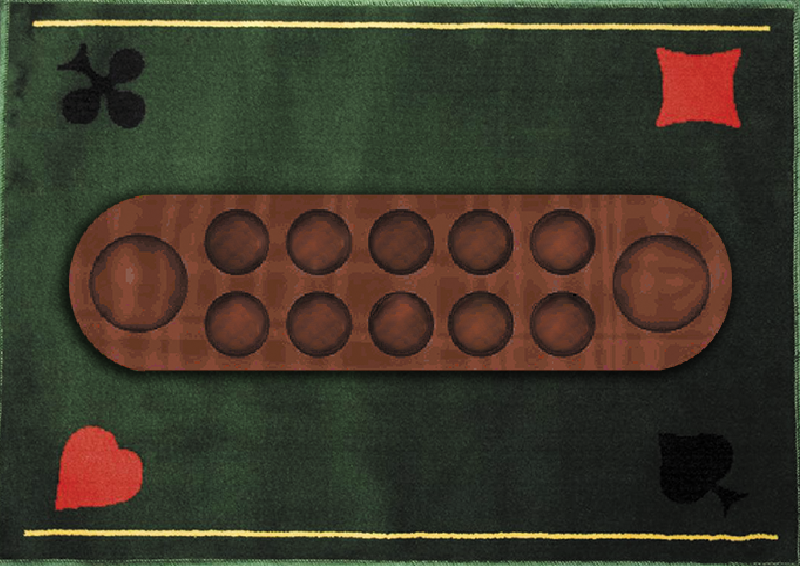
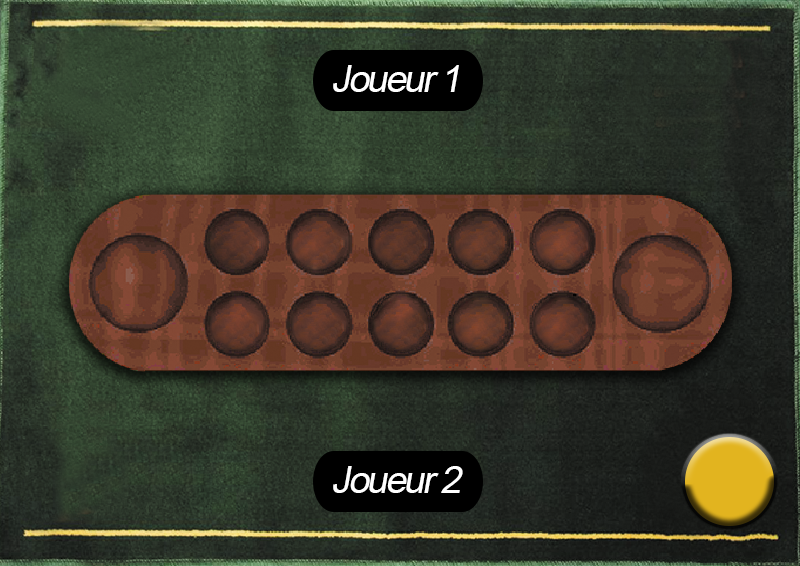
Update Java (Broken)

diff --git a/Java/src/Kallah.java b/Java/src/Kallah.java
@@ -132,11 +132,13 @@ public class Kallah extends JFrame implements ActionListener, MouseListener {
                 mValidateBt.addActionListener(this) ; 
                 
                 mPanel = new ImagePanel();
-
+                mPanel.addMouseListener(this);
+                mPanel.setValue(""+4, ""+4, ""+4, ""+4, ""+4, ""+0, ""+4, ""+4, ""+4, ""+4, ""+4, ""+0);
                 this.setTitle("Kallah") ; 
                 
                 this.add(mPanel) ; 
-                this.setSize(800,566) ;
+                this.setSize(806,594) ;
+                this.setResizable(false);
                 this.setLocation(300,300) ;        
         }
 
@@ -220,7 +222,6 @@ public class Kallah extends JFrame implements ActionListener, MouseListener {
 
         @Override
         public void mouseClicked(MouseEvent e) {
-                JButton source = (JButton)e.getSource();
                 int num = -1;
                 if(e.getX() > 203 && e.getX() < 270){
                         num = 4;
@@ -270,7 +271,7 @@ public class Kallah extends JFrame implements ActionListener, MouseListener {
 
         	String h00, h01, h02, h03, h04, h05,
         	h10, h11, h12, h13, h14, h15;
-        	
+        	            
         	public void setValue(String h00,String h01,String h02,String h03,String h04, String h05,
         			String h10,String h11,String h12,String h13,String h14, String h15){
         		this.h00 = h00;
@@ -285,6 +286,7 @@ public class Kallah extends JFrame implements ActionListener, MouseListener {
         		this.h13 = h13;
         		this.h14 = h14;
         		this.h15 = h15;
+        		repaint();
         	}
         	
 			@Override
@@ -297,16 +299,20 @@ public class Kallah extends JFrame implements ActionListener, MouseListener {
 				} catch (IOException e) {
 					e.printStackTrace();
 				}
-				g.drawString(""+h00, 530, 210);
-				g.drawString(""+h01, 447, 210);
-				g.drawString(""+h02, 369, 210);
-				g.drawString(""+h03, 287, 210);
-				g.drawString(""+h04, 207, 210);
-				g.drawString(""+h10, 207, 290);
-				g.drawString(""+h11, 287, 290);
-				g.drawString(""+h12, 369, 290);
-				g.drawString(""+h13, 447, 290);
-				g.drawString(""+h14, 530, 290);
+				g.setColor(Color.WHITE);
+				g.setFont(new Font(Font.SANS_SERIF, Font.BOLD, 30));
+				g.drawString(""+h00, 550, 250);
+				g.drawString(""+h01, 467, 250);
+				g.drawString(""+h02, 389, 250);
+				g.drawString(""+h03, 307, 250);
+				g.drawString(""+h04, 227, 250);
+				g.drawString(""+h05, 127, 290);
+				g.drawString(""+h10, 227, 330);
+				g.drawString(""+h11, 307, 330);
+				g.drawString(""+h12, 389, 330);
+				g.drawString(""+h13, 467, 330);
+				g.drawString(""+h14, 550, 330);
+				g.drawString(""+h15, 650, 290);
 			}
         	
         }
